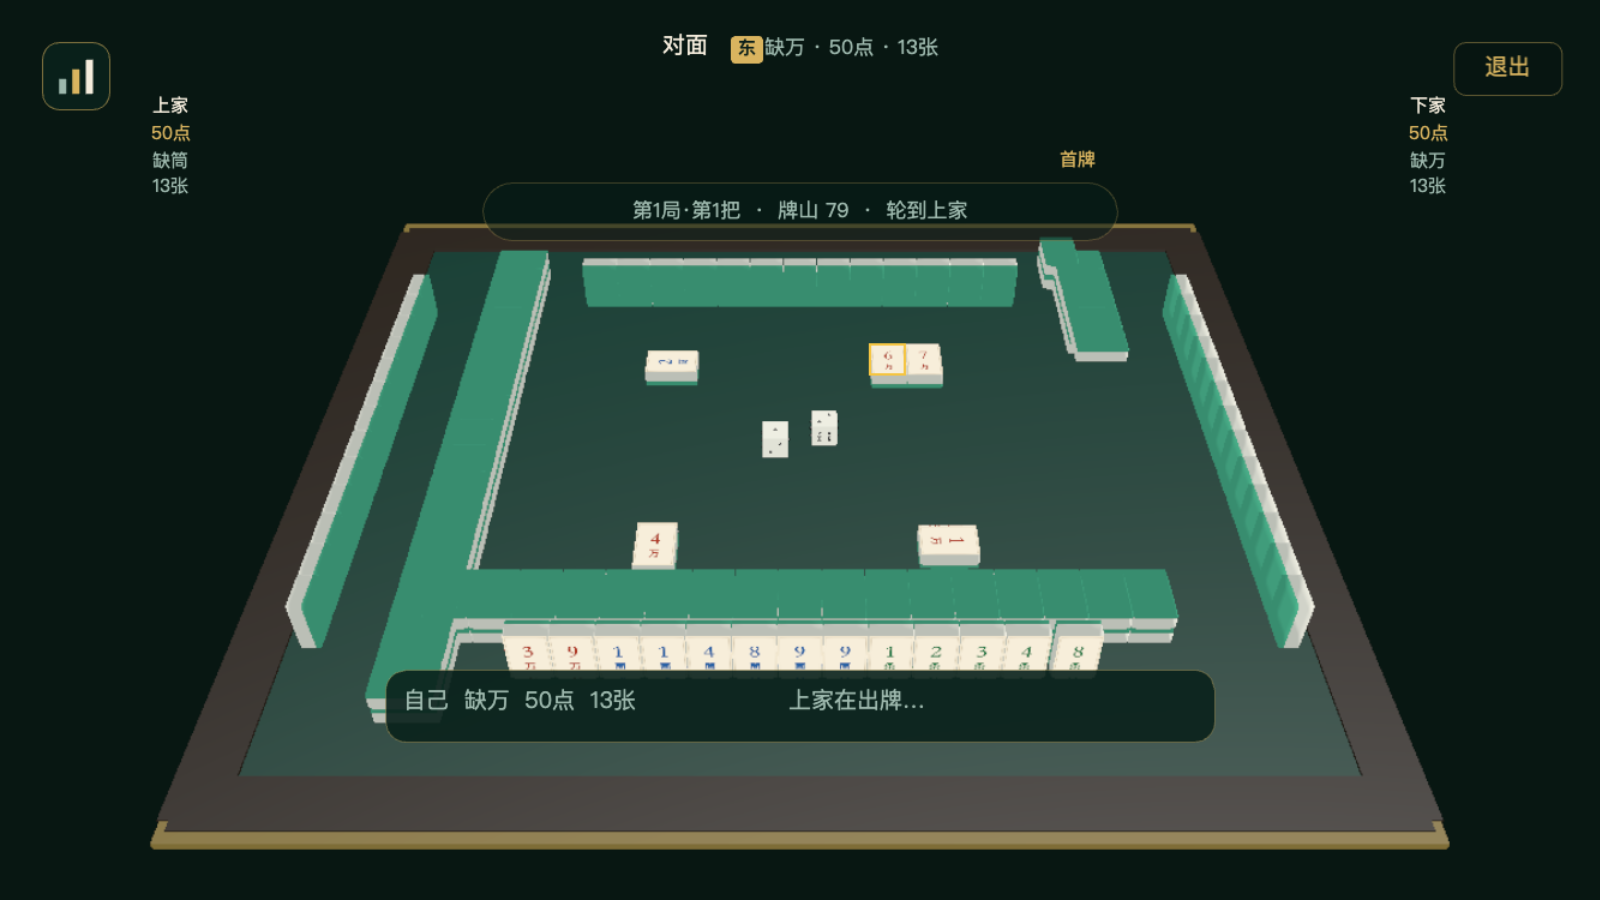
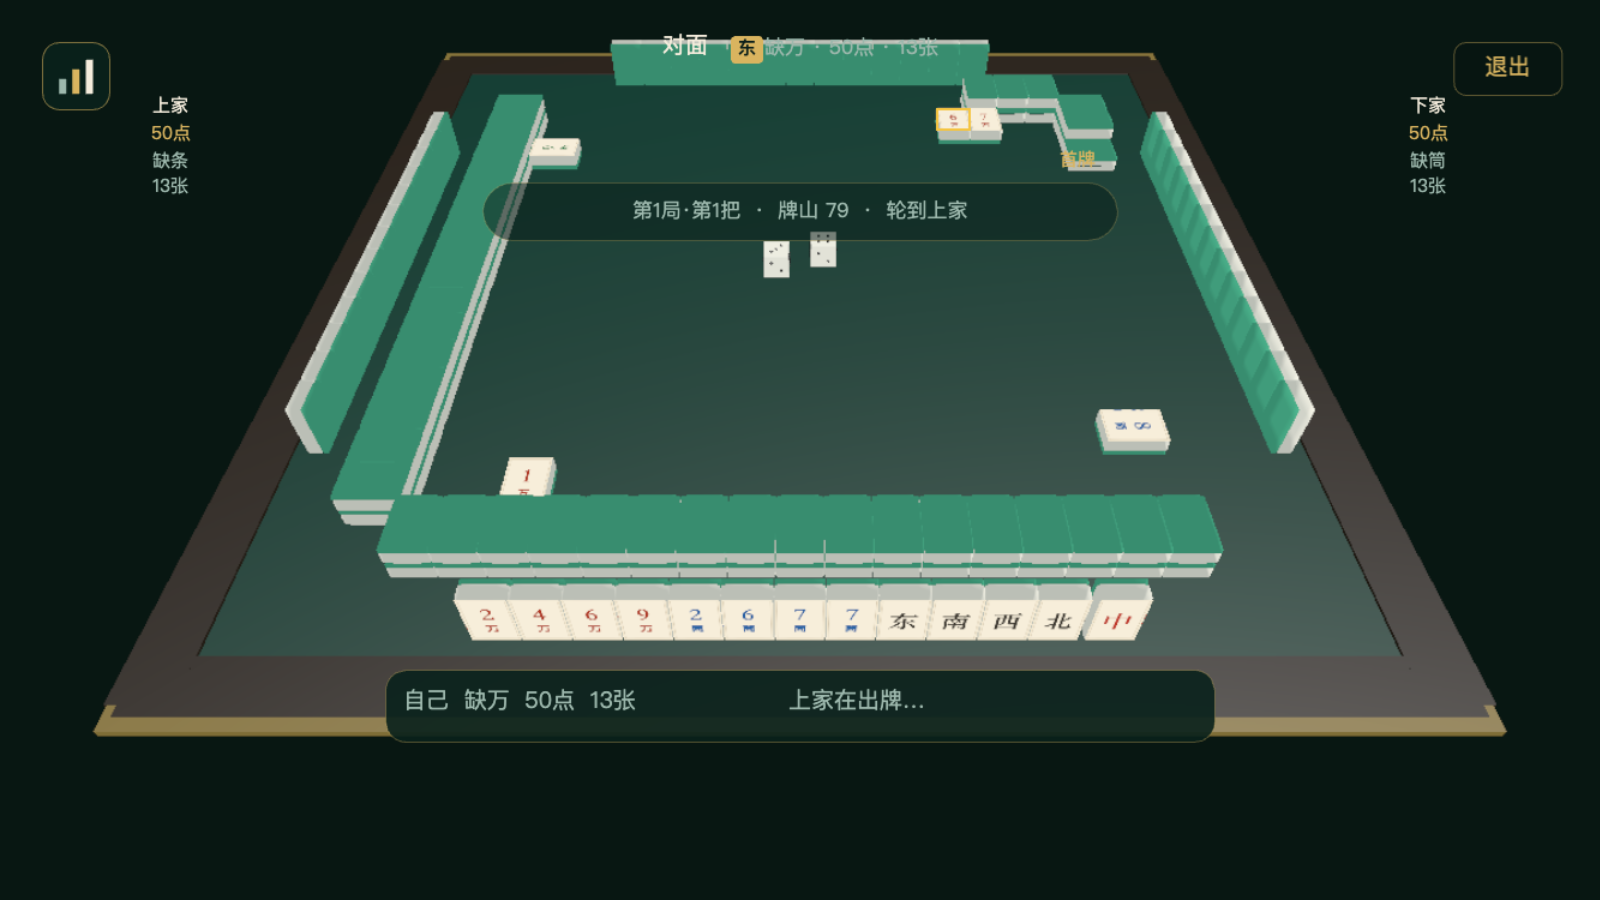
fix(layair): 按桌沿半张牌重排四家手牌、牌墙与牌河
手牌统一离桌沿半张牌宽；牌墙离手牌一张牌；牌河按 13 张一行向桌心逐行收缩，避免与侧家牌河重叠；副露移到座位外侧。相机继续压低拉近，优先本家手牌。

diff --git a/layair/src/ui/Table3D.ts b/layair/src/ui/Table3D.ts
@@ -29,13 +29,13 @@ const TILE_T = 26
 const TILE_BACK = '#4CAF87'
 const TABLE_W = 1280
 /** 桌面进深：牌墙是平躺的真牌（进深一张牌高 86），桌面太浅左右两条墙就塞不下 */
-const TABLE_D = 1080
+const TABLE_D = 1280
 /**
  * 手牌离桌沿的留白：四家统一一张牌厚（TILE_T）。
  * 牌是立着的，沿「朝向桌心」那个轴的厚度就是 TILE_T，
  * 所以牌体中心 = 桌沿 - 留白 - TILE_T / 2。
  */
-const HAND_EDGE_GAP = TILE_W
+const HAND_EDGE_GAP = TILE_W / 2
 const HAND_Z_SELF = TABLE_D / 2 - HAND_EDGE_GAP - TILE_T / 2
 const HAND_Z_OPP = -HAND_Z_SELF
 const HAND_X_SIDE = TABLE_W / 2 - HAND_EDGE_GAP - TILE_T / 2
@@ -49,13 +49,10 @@ const WALL_STEP = TILE_W
 const WALL_LEN = TILE_W
 const WALL_SPAN = STACKS * WALL_STEP
 /** 牌墙 / 副露 / 牌河的摆放线（离桌心的距离），由外向内依次是 手牌 → 牌墙 → 副露 → 牌河 */
-const WALL_Z = 500
-const WALL_X = 600
-const WALL_Z_SELF = 300
-const MELD_Z = 315
-const MELD_X = 315
-const DISCARD_Z = 195
-const DISCARD_X = 195
+const WALL_Z = 494
+const WALL_X = 494
+const WALL_Z_SELF = 494
+const DISCARD_R0 = 416
 
 function hexColor(hex: string, alpha = 1): Laya.Color {
   const value = hex.replace('#', '')
@@ -123,9 +120,9 @@ export class Table3D {
     this.camera.nearPlane = 1
     // 固定相机稍收窄，保证自己的手牌清楚，同时整桌和四家牌河都在画面内。
     this.camera.farPlane = 16000
-    this.camera.fieldOfView = 46
-    this.camera.transform.position = new Laya.Vector3(0, 900, 1200)
-    this.camera.transform.rotationEuler = new Laya.Vector3(-42, 0, 0)
+    this.camera.fieldOfView = 50
+    this.camera.transform.position = new Laya.Vector3(0, 900, 1150)
+    this.camera.transform.rotationEuler = new Laya.Vector3(-48, 0, 0)
 
     this.tableRoot = new Laya.Sprite3D()
     this.dynamicRoot = new Laya.Sprite3D()
@@ -520,17 +517,17 @@ export class Table3D {
         let x = 0
         let z = 0
         if (seat === 0) {
-          x = 260 - cursor * flatGap
-          z = MELD_Z
+          x = 400 + cursor * flatGap
+          z = HAND_Z_SELF
         } else if (seat === 2) {
-          x = -260 + cursor * flatGap
-          z = -MELD_Z
+          x = -400 - cursor * flatGap
+          z = HAND_Z_OPP
         } else if (seat === 3) {
-          x = -MELD_X
-          z = 260 - cursor * flatGap
+          x = -HAND_X_SIDE
+          z = 400 + cursor * flatGap
         } else {
-          x = MELD_X
-          z = 260 - cursor * flatGap
+          x = HAND_X_SIDE
+          z = -400 - cursor * flatGap
         }
         this.addFlatTile(tile, x, z, this.dynamicRoot, seat === 3 ? 90 : seat === 1 ? -90 : 0)
         cursor += 1
@@ -542,37 +539,47 @@ export class Table3D {
   private addDiscards(seat: number, tiles: Tile[]) {
     if (!tiles.length) return
     const last = this.hand?.lastPlayed
-    // 牌与牌紧挨着（step = 牌宽/深，不留缝）。
-    // 左右家整块转 90°，宽深互换，所以 col 走 z、line 走 x。
-    const colStep = TILE_W
-    const lineStep = TILE_H
-    const maxCols = 8
+    const step = TILE_H
+    const maxCols = 13
+    let row = 0
+    let col = 0
+    const colsForRow = (r: number) => {
+      const radial = DISCARD_R0 - r * step
+      const sideInner = radial - TILE_H / 2 - 2
+      return Math.min(maxCols, Math.max(1, Math.floor((sideInner * 2) / TILE_W)))
+    }
+
     for (let i = 0; i < tiles.length; i += 1) {
+      while (col >= colsForRow(row)) {
+        row += 1
+        col = 0
+      }
+      const cols = colsForRow(row)
+      const radial = DISCARD_R0 - row * step
       const tile = tiles[i]
-      const col = i % maxCols
-      const line = Math.floor(i / maxCols)
       let x = 0
       let z = 0
       let rotation = 0
       if (seat === 0) {
-        x = -((maxCols - 1) * colStep) / 2 + col * colStep
-        z = DISCARD_Z - line * lineStep
+        x = -((cols - 1) * TILE_W) / 2 + col * TILE_W
+        z = radial
       } else if (seat === 2) {
-        x = ((maxCols - 1) * colStep) / 2 - col * colStep
-        z = -DISCARD_Z + line * lineStep
+        x = ((cols - 1) * TILE_W) / 2 - col * TILE_W
+        z = -radial
       } else if (seat === 3) {
-        x = -DISCARD_X + line * lineStep
-        z = -((maxCols - 1) * colStep) / 2 + col * colStep
+        x = -radial
+        z = -((cols - 1) * TILE_W) / 2 + col * TILE_W
         rotation = 90
       } else {
-        x = DISCARD_X - line * lineStep
-        z = ((maxCols - 1) * colStep) / 2 - col * colStep
+        x = radial
+        z = ((cols - 1) * TILE_W) / 2 - col * TILE_W
         rotation = -90
       }
       this.addFlatTile(tile, x, z, this.dynamicRoot, rotation)
       if (last && last.seat === seat && last.tile === tile && i === tiles.length - 1) {
         this.lastMark = this.markFlatTile(x, z, rotation)
       }
+      col += 1
     }
   }
 
